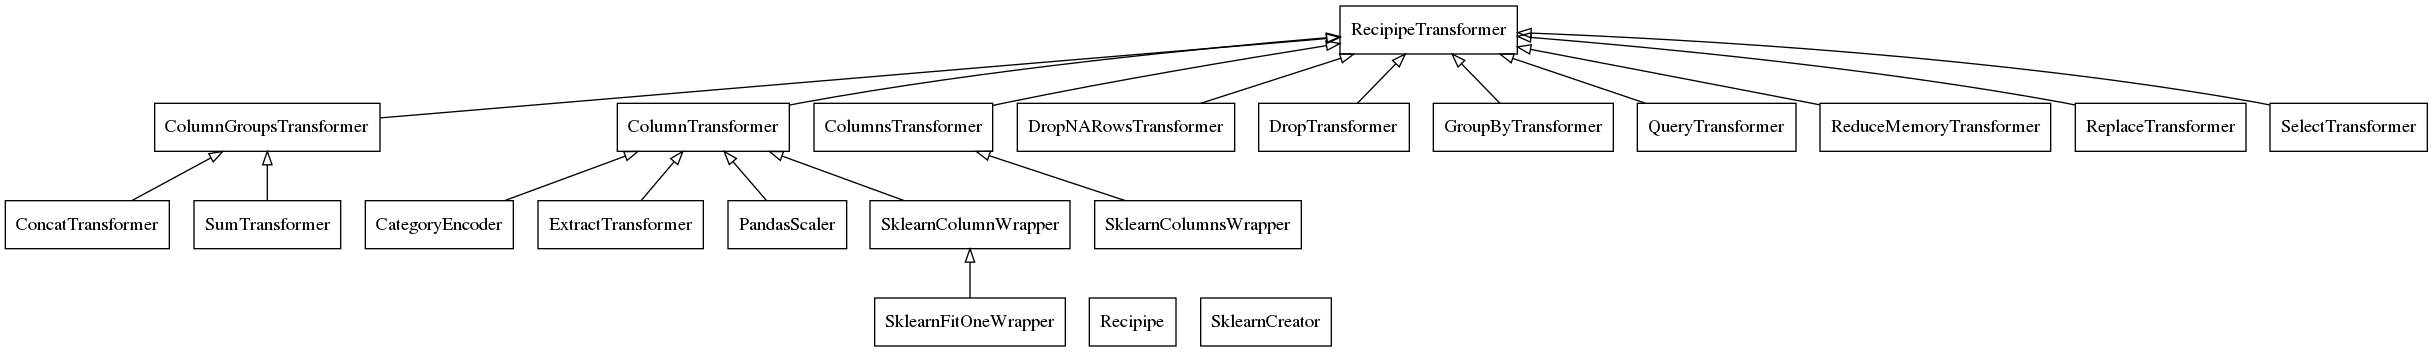
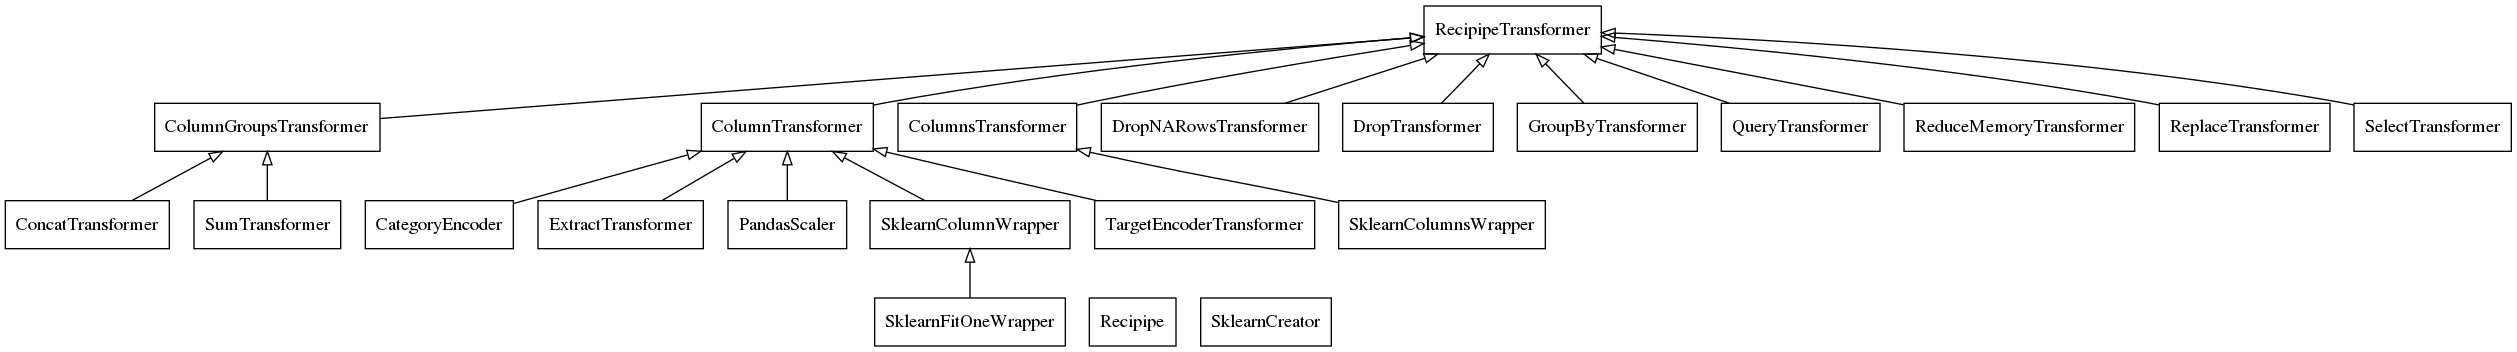
Deploying to gh-pages from  @ 59e447eec90e75dd7cc5e11b3ef0d5c1fa50d520 🚀

diff --git a/searchindex.js b/searchindex.js
@@ -1,1 +1,1 @@
-Search.setIndex({docnames:["diagrams","index","installation","recipipe"],envversion:{"sphinx.domains.c":2,"sphinx.domains.changeset":1,"sphinx.domains.citation":1,"sphinx.domains.cpp":2,"sphinx.domains.index":1,"sphinx.domains.javascript":2,"sphinx.domains.math":2,"sphinx.domains.python":2,"sphinx.domains.rst":2,"sphinx.domains.std":1,"sphinx.ext.intersphinx":1,"sphinx.ext.viewcode":1,sphinx:56},filenames:["diagrams.rst","index.rst","installation.rst","recipipe.rst"],objects:{"":{recipipe:[3,0,0,"-"]},"recipipe.core":{Recipipe:[3,1,1,""],RecipipeTransformer:[3,1,1,""]},"recipipe.core.Recipipe":{__abstractmethods__:[3,2,1,""],__add__:[3,3,1,""],__init__:[3,3,1,""],__module__:[3,2,1,""],add:[3,3,1,""],steps:[3,2,1,""]},"recipipe.core.RecipipeTransformer":{__init__:[3,3,1,""],__module__:[3,2,1,""],fit:[3,3,1,""],get_column_mapping:[3,3,1,""],inverse_transform:[3,3,1,""],name:[3,2,1,""],transform:[3,3,1,""]},"recipipe.transformers":{CategoryEncoder:[3,1,1,""],ColumnGroupsTransformer:[3,1,1,""],ColumnTransformer:[3,1,1,""],ColumnsTransformer:[3,1,1,""],ConcatTransformer:[3,1,1,""],DropNARowsTransformer:[3,1,1,""],DropTransformer:[3,1,1,""],ExtractTransformer:[3,1,1,""],GroupByTransformer:[3,1,1,""],PandasScaler:[3,1,1,""],QueryTransformer:[3,1,1,""],ReduceMemoryTransformer:[3,1,1,""],ReplaceTransformer:[3,1,1,""],SelectTransformer:[3,1,1,""],SklearnColumnWrapper:[3,1,1,""],SklearnColumnsWrapper:[3,1,1,""],SklearnCreator:[3,1,1,""],SklearnFitOneWrapper:[3,1,1,""],SumTransformer:[3,1,1,""]},"recipipe.transformers.CategoryEncoder":{__init__:[3,3,1,""],__module__:[3,2,1,""]},"recipipe.transformers.ColumnGroupsTransformer":{__init__:[3,3,1,""],__module__:[3,2,1,""],get_column_mapping:[3,3,1,""]},"recipipe.transformers.ColumnTransformer":{__module__:[3,2,1,""],fit:[3,3,1,""]},"recipipe.transformers.ColumnsTransformer":{__module__:[3,2,1,""]},"recipipe.transformers.ConcatTransformer":{__init__:[3,3,1,""],__module__:[3,2,1,""]},"recipipe.transformers.DropNARowsTransformer":{__init__:[3,3,1,""],__module__:[3,2,1,""],inverse_transform:[3,3,1,""],transform:[3,3,1,""]},"recipipe.transformers.DropTransformer":{__module__:[3,2,1,""],inverse_transform:[3,3,1,""],transform:[3,3,1,""]},"recipipe.transformers.ExtractTransformer":{__init__:[3,3,1,""],__module__:[3,2,1,""],get_column_mapping:[3,3,1,""]},"recipipe.transformers.GroupByTransformer":{__init__:[3,3,1,""],__module__:[3,2,1,""],fit:[3,3,1,""],fit_group:[3,3,1,""],inverse_transform:[3,3,1,""],inverse_transform_group:[3,3,1,""],transform:[3,3,1,""],transform_group:[3,3,1,""]},"recipipe.transformers.PandasScaler":{__init__:[3,3,1,""],__module__:[3,2,1,""]},"recipipe.transformers.QueryTransformer":{__init__:[3,3,1,""],__module__:[3,2,1,""],transform:[3,3,1,""]},"recipipe.transformers.ReduceMemoryTransformer":{__init__:[3,3,1,""],__module__:[3,2,1,""],transform:[3,3,1,""]},"recipipe.transformers.ReplaceTransformer":{__init__:[3,3,1,""],__module__:[3,2,1,""]},"recipipe.transformers.SelectTransformer":{__module__:[3,2,1,""],inverse_transform:[3,3,1,""],transform:[3,3,1,""]},"recipipe.transformers.SklearnColumnWrapper":{__init__:[3,3,1,""],__module__:[3,2,1,""],get_column_mapping:[3,3,1,""]},"recipipe.transformers.SklearnColumnsWrapper":{__init__:[3,3,1,""],__module__:[3,2,1,""],get_column_mapping:[3,3,1,""]},"recipipe.transformers.SklearnCreator":{WRAPPERS:[3,2,1,""],__call__:[3,3,1,""],__dict__:[3,2,1,""],__init__:[3,3,1,""],__module__:[3,2,1,""],__weakref__:[3,2,1,""]},"recipipe.transformers.SklearnFitOneWrapper":{__module__:[3,2,1,""]},"recipipe.transformers.SumTransformer":{__module__:[3,2,1,""]},"recipipe.utils":{add_to_map_dict:[3,4,1,""],default_params:[3,4,1,""],fit_columns:[3,4,1,""],flatten_list:[3,4,1,""],is_categorical:[3,4,1,""],memory_usage_mb:[3,4,1,""]},recipipe:{core:[3,0,0,"-"],greet:[3,4,1,""],transformers:[3,0,0,"-"],utils:[3,0,0,"-"]}},objnames:{"0":["py","module","Python module"],"1":["py","class","Python class"],"2":["py","attribute","Python attribute"],"3":["py","method","Python method"],"4":["py","function","Python function"]},objtypes:{"0":"py:module","1":"py:class","2":"py:attribute","3":"py:method","4":"py:function"},terms:{"class":[1,3],"default":3,"function":3,"import":[2,3],"int":3,"new":3,"return":3,"true":3,For:3,The:[2,3],Use:3,Using:2,__abstractmethods__:3,__add__:3,__call__:3,__dict__:3,__doc__:3,__init__:3,__module__:3,__weakref__:3,_new:3,about:3,accur:3,add:3,add_to_map_dict:3,after:3,alia:3,alias:1,all:[2,3],allow:3,alreadi:3,also:3,alwai:[2,3],ani:[2,3],anoth:3,another_fun:3,anytim:3,append:3,appli:3,arg:3,argument:3,assum:3,attr:3,attribut:3,automat:[2,3],avoid:3,back:3,base:3,baseestim:3,becaus:3,been:3,befor:3,between:3,big:3,binar:3,bool:3,both:3,branch:2,call:3,can:[2,3],cannot:3,captur:3,care:3,categor:3,categori:3,categoryencod:3,chain:3,chang:[2,3],check:3,clone:2,code:1,col:3,col_format:3,col_init:3,col_map:3,col_valu:3,cols_init:3,cols_list:3,cols_not_found_error:3,column:3,columngroupstransform:3,columnstransform:3,columntransform:3,com:2,combin:3,come:3,compat:3,complet:3,comput:3,concat:3,concaten:3,concattransform:3,consid:[2,3],constant:3,constrain:3,construct:3,contain:3,content:1,continu:3,convers:3,convert:3,copi:3,core:1,creat:3,creation:3,current:2,data:3,datafram:3,datatyp:3,deal:3,declar:3,deep:3,def:3,default_dict:3,default_param:3,defin:3,definit:3,delet:3,depend:2,develop:2,df_in:3,diagram:1,dict:3,dictionari:3,differ:3,directori:2,doc:2,doe:3,done:3,download:0,drop:3,drop_dupl:3,dropna:3,dropna_row:3,dropnarowstransform:3,droptransform:3,dtype:3,duplic:3,each:3,eas:3,easi:3,edit:2,element:3,empti:3,encod:3,end:3,environ:2,error:3,error_unknown:3,especi:3,even:3,everyth:2,exact:2,exactli:3,exampl:3,except:3,exclud:3,exclus:3,execut:[2,3],exist:3,extens:3,extra:2,extract:3,extracttransform:3,factor:3,fals:3,few:3,filenam:[2,3],filter:3,first:3,fist:3,fit:3,fit_column:3,fit_group:3,fit_one_col:3,flag:3,flatten:3,flatten_list:3,fnmatch:3,format:0,friendli:3,from:[1,3],from_sklearn:3,frozenset:3,full:0,fun:3,fun_kwarg:3,gener:[2,3],get:3,get_column_map:3,git:2,github:2,give:3,given:3,going:3,good:3,greet:[2,3],group:3,group_column:3,groupbi:3,groupbytransform:3,guiferviz:2,handle_unknown:3,has:3,hashabl:3,have:[2,3],help:3,here:3,how:3,http:2,human:3,ideal:3,ident:3,ignor:3,implement:3,improv:3,imput:3,includ:3,incorpor:3,index:1,indic:3,inform:3,initi:3,inplac:3,input:3,instal:1,instanc:3,instanti:3,instead:3,integ:3,invers:3,inverse_transform:3,inverse_transform_group:3,is_categor:3,isn:3,iter:3,joke:2,keep:3,keep_origin:3,kei:3,know:2,kwarg:3,later:3,latest:2,less:3,like:3,list:3,mai:3,make:3,mani:3,manual:3,map:3,mappingproxi:3,master:2,match:3,memori:3,memory_usag:3,memory_usage_mb:3,method:[2,3],minmax:3,minmaxscal:3,missingind:3,mode:2,modif:3,modifi:3,modul:1,more:3,much:3,must:3,name:3,ndarrai:3,need:[2,3],next:3,non:3,none:3,normal:3,note:3,now:3,num_column:3,number:3,numer:3,numpi:3,object:3,object_to_categori:3,obvious:3,occupi:3,one:3,onehot:3,onehotencod:3,ones:3,onli:3,oper:3,order:3,otherwis:3,output:3,over:3,overwrit:3,packag:[1,2],pain:3,panda:3,pandasscal:3,param:3,paramet:3,particular:3,pass:3,pattern:3,pdf:0,per:3,percentag:3,phase:3,pip:2,pipe:3,pipelin:3,place:3,placehold:3,possibl:3,preprocess:3,print:3,problem:2,process:3,product:2,program:2,project:[2,3],properli:2,provid:3,pypi:1,python:2,quantiti:3,queri:3,querytransform:3,rais:3,raise_error:3,realli:[2,3],reason:3,recipip:2,recipipetransform:3,recommend:2,recurs:3,reduc:3,reduce_memori:3,reducememorytransform:3,refer:3,regex:3,relat:3,relationship:3,remind:3,remov:3,replac:3,replacetransform:3,repositori:2,requir:[2,3],requirements_dev:2,respect:2,rest:3,result:3,reus:3,robust_scal:3,robustscal:3,root:2,row:3,run:2,same:3,satisfi:3,save:3,scale:3,scaler:3,scienc:3,screen:[2,3],see:[2,3],select:3,select_dtyp:3,selecttransform:3,self:3,sens:3,sentenc:3,separ:3,seri:3,set:3,setuptool:2,sever:3,share:3,should:[2,3],show:3,shown:3,signatur:3,silli:3,similar:2,simpleimput:3,sk_binar:3,sk_indic:3,sk_input:3,sk_onehot:3,sk_scale:3,sk_transform:3,sklearn:3,sklearncolumnswrapp:3,sklearncolumnwrapp:3,sklearncreat:3,sklearnfitonewrapp:3,slow:3,solv:3,some:[2,3],someth:2,sourc:[1,3],spars:3,specif:3,specifi:3,split:3,standar:3,standard:3,standardscal:3,stdout:3,step:3,store:3,str:3,strategi:3,string:3,substitut:3,sum:3,sumtransform:3,suport:3,support:3,sure:3,symbol:3,tabl:3,take:3,taken:3,test:1,than:3,thei:3,them:[2,3],thi:3,those:[2,3],thresh:3,time:3,too:3,transform:1,transform_group:3,transformermixin:3,tupl:3,twice:3,two:3,txt:2,type:3,uniqu:3,unix:3,unknown_valu:3,unpack:3,usag:3,use:[2,3],used:3,useful:3,user:3,using:[2,3],util:1,valu:3,valueerror:3,variabl:3,verbos:3,veri:3,version:2,virtual:2,wai:3,want:3,weak:3,well:2,when:3,where:3,which:3,without:3,work:[2,3],wrapper:3,you:[2,3],your:3,yourself:3},titles:["Diagrams","Welcome to Recipipe\u2019s documentation!","Installation","recipipe package"],titleterms:{"class":0,alias:3,code:2,core:3,diagram:0,document:1,from:2,indic:1,instal:2,modul:3,packag:[0,3],pypi:2,recipip:[1,3],sourc:2,test:2,transform:3,util:3,welcom:1}})
+Search.setIndex({docnames:["diagrams","index","installation","recipipe"],envversion:{"sphinx.domains.c":2,"sphinx.domains.changeset":1,"sphinx.domains.citation":1,"sphinx.domains.cpp":2,"sphinx.domains.index":1,"sphinx.domains.javascript":2,"sphinx.domains.math":2,"sphinx.domains.python":2,"sphinx.domains.rst":2,"sphinx.domains.std":1,"sphinx.ext.intersphinx":1,"sphinx.ext.viewcode":1,sphinx:56},filenames:["diagrams.rst","index.rst","installation.rst","recipipe.rst"],objects:{"":{recipipe:[3,0,0,"-"]},"recipipe.core":{Recipipe:[3,1,1,""],RecipipeTransformer:[3,1,1,""]},"recipipe.core.Recipipe":{__abstractmethods__:[3,2,1,""],__add__:[3,3,1,""],__init__:[3,3,1,""],__module__:[3,2,1,""],add:[3,3,1,""],steps:[3,2,1,""]},"recipipe.core.RecipipeTransformer":{__init__:[3,3,1,""],__module__:[3,2,1,""],fit:[3,3,1,""],get_column_mapping:[3,3,1,""],inverse_transform:[3,3,1,""],name:[3,2,1,""],transform:[3,3,1,""]},"recipipe.transformers":{CategoryEncoder:[3,1,1,""],ColumnGroupsTransformer:[3,1,1,""],ColumnTransformer:[3,1,1,""],ColumnsTransformer:[3,1,1,""],ConcatTransformer:[3,1,1,""],DropNARowsTransformer:[3,1,1,""],DropTransformer:[3,1,1,""],ExtractTransformer:[3,1,1,""],GroupByTransformer:[3,1,1,""],PandasScaler:[3,1,1,""],QueryTransformer:[3,1,1,""],ReduceMemoryTransformer:[3,1,1,""],ReplaceTransformer:[3,1,1,""],SelectTransformer:[3,1,1,""],SklearnColumnWrapper:[3,1,1,""],SklearnColumnsWrapper:[3,1,1,""],SklearnCreator:[3,1,1,""],SklearnFitOneWrapper:[3,1,1,""],SumTransformer:[3,1,1,""],TargetEncoderTransformer:[3,1,1,""]},"recipipe.transformers.CategoryEncoder":{__init__:[3,3,1,""],__module__:[3,2,1,""]},"recipipe.transformers.ColumnGroupsTransformer":{__init__:[3,3,1,""],__module__:[3,2,1,""],get_column_mapping:[3,3,1,""]},"recipipe.transformers.ColumnTransformer":{__module__:[3,2,1,""],fit:[3,3,1,""]},"recipipe.transformers.ColumnsTransformer":{__module__:[3,2,1,""]},"recipipe.transformers.ConcatTransformer":{__init__:[3,3,1,""],__module__:[3,2,1,""]},"recipipe.transformers.DropNARowsTransformer":{__init__:[3,3,1,""],__module__:[3,2,1,""],inverse_transform:[3,3,1,""],transform:[3,3,1,""]},"recipipe.transformers.DropTransformer":{__module__:[3,2,1,""],inverse_transform:[3,3,1,""],transform:[3,3,1,""]},"recipipe.transformers.ExtractTransformer":{__init__:[3,3,1,""],__module__:[3,2,1,""],get_column_mapping:[3,3,1,""]},"recipipe.transformers.GroupByTransformer":{__init__:[3,3,1,""],__module__:[3,2,1,""],fit:[3,3,1,""],fit_group:[3,3,1,""],inverse_transform:[3,3,1,""],inverse_transform_group:[3,3,1,""],transform:[3,3,1,""],transform_group:[3,3,1,""]},"recipipe.transformers.PandasScaler":{__init__:[3,3,1,""],__module__:[3,2,1,""]},"recipipe.transformers.QueryTransformer":{__init__:[3,3,1,""],__module__:[3,2,1,""],transform:[3,3,1,""]},"recipipe.transformers.ReduceMemoryTransformer":{__init__:[3,3,1,""],__module__:[3,2,1,""],transform:[3,3,1,""]},"recipipe.transformers.ReplaceTransformer":{__init__:[3,3,1,""],__module__:[3,2,1,""]},"recipipe.transformers.SelectTransformer":{__module__:[3,2,1,""],inverse_transform:[3,3,1,""],transform:[3,3,1,""]},"recipipe.transformers.SklearnColumnWrapper":{__init__:[3,3,1,""],__module__:[3,2,1,""],get_column_mapping:[3,3,1,""]},"recipipe.transformers.SklearnColumnsWrapper":{__init__:[3,3,1,""],__module__:[3,2,1,""],get_column_mapping:[3,3,1,""]},"recipipe.transformers.SklearnCreator":{WRAPPERS:[3,2,1,""],__call__:[3,3,1,""],__dict__:[3,2,1,""],__init__:[3,3,1,""],__module__:[3,2,1,""],__weakref__:[3,2,1,""]},"recipipe.transformers.SklearnFitOneWrapper":{__module__:[3,2,1,""]},"recipipe.transformers.SumTransformer":{__module__:[3,2,1,""]},"recipipe.transformers.TargetEncoderTransformer":{__init__:[3,3,1,""],__module__:[3,2,1,""]},"recipipe.utils":{add_to_map_dict:[3,4,1,""],default_params:[3,4,1,""],fit_columns:[3,4,1,""],flatten_list:[3,4,1,""],is_categorical:[3,4,1,""],memory_usage_mb:[3,4,1,""]},recipipe:{core:[3,0,0,"-"],greet:[3,4,1,""],transformers:[3,0,0,"-"],utils:[3,0,0,"-"]}},objnames:{"0":["py","module","Python module"],"1":["py","class","Python class"],"2":["py","attribute","Python attribute"],"3":["py","method","Python method"],"4":["py","function","Python function"]},objtypes:{"0":"py:module","1":"py:class","2":"py:attribute","3":"py:method","4":"py:function"},terms:{"class":[1,3],"default":3,"function":3,"import":[2,3],"int":3,"new":3,"return":3,"true":3,For:3,The:[2,3],Use:3,Using:2,__abstractmethods__:3,__add__:3,__call__:3,__dict__:3,__doc__:3,__init__:3,__module__:3,__weakref__:3,_new:3,about:3,accur:3,add:3,add_to_map_dict:3,after:3,alia:3,alias:1,all:[2,3],allow:3,alreadi:3,also:3,alwai:[2,3],ani:[2,3],anoth:3,another_fun:3,anytim:3,append:3,appli:3,arg:3,argument:3,assum:3,attr:3,attribut:3,automat:[2,3],avoid:3,back:3,barreca:3,base:3,baseestim:3,becaus:3,been:3,befor:3,between:3,big:3,binar:3,bool:3,both:3,branch:2,call:3,can:[2,3],cannot:3,captur:3,cardin:3,care:3,categor:3,categori:3,categoryencod:3,chain:3,chang:[2,3],check:3,classif:3,classifi:3,clone:2,code:[1,3],col:3,col_format:3,col_init:3,col_map:3,col_valu:3,cols_init:3,cols_list:3,cols_not_found_error:3,column:3,columngroupstransform:3,columnstransform:3,columntransform:3,com:[2,3],combin:3,come:3,compat:3,complet:3,comput:3,concat:3,concaten:3,concattransform:3,consid:[2,3],constant:3,constrain:3,construct:3,contain:3,content:1,continu:3,convers:3,convert:3,copi:3,core:1,creat:3,creation:3,current:2,daniel:3,data:3,datafram:3,datatyp:3,deal:3,declar:3,deep:3,def:3,default_dict:3,default_param:3,defin:3,definit:3,delet:3,depend:2,describ:3,develop:2,df_in:3,diagram:1,dict:3,dictionari:3,differ:3,directori:2,doc:2,doe:3,done:3,download:0,drop:3,drop_dupl:3,dropna:3,dropna_row:3,dropnarowstransform:3,droptransform:3,dtype:3,duplic:3,each:3,eas:3,easi:3,edit:2,element:3,empti:3,encod:3,end:3,environ:2,error:3,error_unknown:3,especi:3,even:3,everyth:2,exact:2,exactli:3,exampl:3,except:3,exclud:3,exclus:3,execut:[2,3],exist:3,extens:3,extra:2,extract:3,extracttransform:3,factor:3,fals:3,few:3,filenam:[2,3],filter:3,first:3,fist:3,fit:3,fit_column:3,fit_group:3,fit_one_col:3,flag:3,flatten:3,flatten_list:3,fnmatch:3,format:0,friendli:3,from:[1,3],from_sklearn:3,frozenset:3,full:0,fun:3,fun_kwarg:3,gener:[2,3],get:3,get_column_map:3,git:2,github:2,give:3,given:3,going:3,good:3,greet:[2,3],group:3,group_column:3,groupbi:3,groupbytransform:3,guiferviz:2,handle_unknown:3,has:3,hashabl:3,have:[2,3],help:3,here:3,high:3,how:3,http:[2,3],human:3,ideal:3,ident:3,ignor:3,implement:3,improv:3,imput:3,includ:3,incorpor:3,index:1,indic:3,inform:3,initi:3,inplac:3,input:3,instal:1,instanc:3,instanti:3,instead:3,integ:3,invers:3,inverse_transform:3,inverse_transform_group:3,is_categor:3,isn:3,iter:3,joke:2,kaggl:3,keep:3,keep_origin:3,kei:3,know:2,kwarg:3,later:3,latest:2,less:3,like:3,list:3,mai:3,make:3,mani:3,manual:3,map:3,mappingproxi:3,master:2,match:3,memori:3,memory_usag:3,memory_usage_mb:3,method:[2,3],micci:3,min_samples_leaf:3,minmax:3,minmaxscal:3,missingind:3,mode:2,modif:3,modifi:3,modul:1,more:3,much:3,must:3,name:3,ndarrai:3,need:[2,3],next:3,non:3,none:3,normal:3,note:3,now:3,num_column:3,number:3,numer:3,numpi:3,object:3,object_to_categori:3,obvious:3,occupi:3,ogrelli:3,one:3,onehot:3,onehotencod:3,ones:3,onli:3,oper:3,order:3,otherwis:3,output:3,over:3,overwrit:3,packag:[1,2],pain:3,panda:3,pandasscal:3,param:3,paramet:3,partial:3,particular:3,pass:3,pattern:3,pdf:0,per:3,percentag:3,phase:3,pip:2,pipe:3,pipelin:3,place:3,placehold:3,possibl:3,predict:3,preprocess:3,print:3,problem:[2,3],process:3,product:2,program:2,project:[2,3],properli:2,provid:3,pypi:1,python:2,quantiti:3,queri:3,querytransform:3,rais:3,raise_error:3,realli:[2,3],reason:3,recipip:2,recipipetransform:3,recommend:2,recurs:3,reduc:3,reduce_memori:3,reducememorytransform:3,refer:3,regex:3,relat:3,relationship:3,remind:3,remov:3,replac:3,replacetransform:3,repositori:2,requir:[2,3],requirements_dev:2,respect:2,rest:3,result:3,reus:3,robust_scal:3,robustscal:3,root:2,row:3,run:2,same:3,satisfi:3,save:3,scale:3,scaler:3,scheme:3,scienc:3,screen:[2,3],see:[2,3],select:3,select_dtyp:3,selecttransform:3,self:3,sens:3,sentenc:3,separ:3,seri:3,set:3,setuptool:2,sever:3,share:3,should:[2,3],show:3,shown:3,signatur:3,silli:3,similar:2,simpleimput:3,sk_binar:3,sk_indic:3,sk_input:3,sk_onehot:3,sk_scale:3,sk_transform:3,sklearn:3,sklearncolumnswrapp:3,sklearncolumnwrapp:3,sklearncreat:3,sklearnfitonewrapp:3,slow:3,smooth:3,solv:3,some:[2,3],someth:2,sourc:[1,3],spars:3,specif:3,specifi:3,split:3,standar:3,standard:3,standardscal:3,stdout:3,step:3,store:3,str:3,strategi:3,string:3,substitut:3,sum:3,sumtransform:3,suport:3,support:3,sure:3,symbol:3,tabl:3,take:3,taken:3,target:3,target_encod:3,targetencodertransform:3,test:1,than:3,thei:3,them:[2,3],thi:3,those:[2,3],thresh:3,time:3,too:3,transform:1,transform_group:3,transformermixin:3,tupl:3,twice:3,two:3,txt:2,type:3,uniqu:3,unix:3,unknown_valu:3,unpack:3,upsampl:3,usag:3,use:[2,3],used:3,useful:3,user:3,using:[2,3],util:1,valu:3,valueerror:3,variabl:3,verbos:3,veri:3,version:2,virtual:2,wai:3,want:3,weak:3,well:2,when:3,where:3,which:3,without:3,work:[2,3],wrapper:3,www:3,xgb:3,you:[2,3],your:3,yourself:3},titles:["Diagrams","Welcome to Recipipe\u2019s documentation!","Installation","recipipe package"],titleterms:{"class":0,alias:3,code:2,core:3,diagram:0,document:1,from:2,indic:1,instal:2,modul:3,packag:[0,3],pypi:2,recipip:[1,3],sourc:2,test:2,transform:3,util:3,welcom:1}})

diff --git a/recipipe.html b/recipipe.html
@@ -224,46 +224,49 @@ Here is a complete table with all the aliases.</p>
 <tr class="row-even"><td><p>sum</p></td>
 <td><p><a class="reference internal" href="#recipipe.transformers.SumTransformer" title="recipipe.transformers.SumTransformer"><code class="xref py py-obj docutils literal notranslate"><span class="pre">recipipe.transformers.SumTransformer</span></code></a></p></td>
 </tr>
-<tr class="row-odd"><td><p>from_sklearn</p></td>
+<tr class="row-odd"><td><p>target_encoder</p></td>
+<td><p><a class="reference internal" href="#recipipe.transformers.TargetEncoderTransformer" title="recipipe.transformers.TargetEncoderTransformer"><code class="xref py py-obj docutils literal notranslate"><span class="pre">recipipe.transformers.TargetEncoderTransformer</span></code></a></p></td>
+</tr>
+<tr class="row-even"><td><p>from_sklearn</p></td>
 <td><p><a class="reference internal" href="#recipipe.transformers.SklearnCreator" title="recipipe.transformers.SklearnCreator"><code class="xref py py-obj docutils literal notranslate"><span class="pre">recipipe.transformers.SklearnCreator</span></code></a></p></td>
 </tr>
-<tr class="row-even"><td><p>binarizer</p></td>
+<tr class="row-odd"><td><p>binarizer</p></td>
 <td><p><cite>from_sklearn(Binarizer())</cite></p></td>
 </tr>
-<tr class="row-odd"><td><p>impute</p></td>
+<tr class="row-even"><td><p>impute</p></td>
 <td><p><cite>from_sklearn(SimpleImputer(strategy=’constant’))</cite></p></td>
 </tr>
-<tr class="row-even"><td><p>indicator</p></td>
+<tr class="row-odd"><td><p>indicator</p></td>
 <td><p><cite>from_sklearn(MissingIndicator(),col_format=’INDICATOR({})’)</cite></p></td>
 </tr>
-<tr class="row-odd"><td><p>minmax</p></td>
+<tr class="row-even"><td><p>minmax</p></td>
 <td><p><cite>from_sklearn(MinMaxScaler())</cite></p></td>
 </tr>
-<tr class="row-even"><td><p>onehot</p></td>
+<tr class="row-odd"><td><p>onehot</p></td>
 <td><p><cite>from_sklearn(OneHotEncoder(sparse=False,handle_unknown=’ignore’))</cite></p></td>
 </tr>
-<tr class="row-odd"><td><p>robust_scale</p></td>
+<tr class="row-even"><td><p>robust_scale</p></td>
 <td><p><cite>from_sklearn(RobustScaler())</cite></p></td>
 </tr>
-<tr class="row-even"><td><p>scale</p></td>
+<tr class="row-odd"><td><p>scale</p></td>
 <td><p><cite>from_sklearn(StandardScaler())</cite></p></td>
 </tr>
-<tr class="row-odd"><td><p>standarize</p></td>
+<tr class="row-even"><td><p>standarize</p></td>
 <td><p><cite>from_sklearn(StandardScaler())</cite></p></td>
 </tr>
-<tr class="row-even"><td><p>sk_binarizer</p></td>
+<tr class="row-odd"><td><p>sk_binarizer</p></td>
 <td><p><a class="reference external" href="https://scikit-learn.org/stable/modules/generated/sklearn.preprocessing.Binarizer.html#sklearn.preprocessing.Binarizer" title="(in scikit-learn v0.23)"><code class="xref py py-obj docutils literal notranslate"><span class="pre">sklearn.preprocessing.Binarizer</span></code></a></p></td>
 </tr>
-<tr class="row-odd"><td><p>sk_indicator</p></td>
+<tr class="row-even"><td><p>sk_indicator</p></td>
 <td><p><a class="reference external" href="https://scikit-learn.org/stable/modules/generated/sklearn.impute.MissingIndicator.html#sklearn.impute.MissingIndicator" title="(in scikit-learn v0.23)"><code class="xref py py-obj docutils literal notranslate"><span class="pre">sklearn.impute.MissingIndicator</span></code></a></p></td>
 </tr>
-<tr class="row-even"><td><p>sk_inputer</p></td>
+<tr class="row-odd"><td><p>sk_inputer</p></td>
 <td><p><a class="reference external" href="https://scikit-learn.org/stable/modules/generated/sklearn.impute.SimpleImputer.html#sklearn.impute.SimpleImputer" title="(in scikit-learn v0.23)"><code class="xref py py-obj docutils literal notranslate"><span class="pre">sklearn.impute.SimpleImputer</span></code></a></p></td>
 </tr>
-<tr class="row-odd"><td><p>sk_onehot</p></td>
+<tr class="row-even"><td><p>sk_onehot</p></td>
 <td><p><a class="reference external" href="https://scikit-learn.org/stable/modules/generated/sklearn.preprocessing.OneHotEncoder.html#sklearn.preprocessing.OneHotEncoder" title="(in scikit-learn v0.23)"><code class="xref py py-obj docutils literal notranslate"><span class="pre">sklearn.preprocessing.OneHotEncoder</span></code></a></p></td>
 </tr>
-<tr class="row-even"><td><p>sk_scale</p></td>
+<tr class="row-odd"><td><p>sk_scale</p></td>
 <td><p><a class="reference external" href="https://scikit-learn.org/stable/modules/generated/sklearn.preprocessing.StandardScaler.html#sklearn.preprocessing.StandardScaler" title="(in scikit-learn v0.23)"><code class="xref py py-obj docutils literal notranslate"><span class="pre">sklearn.preprocessing.StandardScaler</span></code></a></p></td>
 </tr>
 </tbody>
@@ -1732,6 +1735,80 @@ For example, if all those columns share the same category type.</p>
 <dl class="py attribute">
 <dt id="recipipe.transformers.SumTransformer.__module__">
 <code class="sig-name descname">__module__</code><em class="property"> = 'recipipe.transformers'</em><a class="headerlink" href="#recipipe.transformers.SumTransformer.__module__" title="Permalink to this definition">¶</a></dt>
+<dd></dd></dl>
+
+</dd></dl>
+
+<dl class="py class">
+<dt id="recipipe.transformers.TargetEncoderTransformer">
+<em class="property">class </em><code class="sig-prename descclassname">recipipe.transformers.</code><code class="sig-name descname">TargetEncoderTransformer</code><span class="sig-paren">(</span><em class="sig-param"><span class="o">*</span><span class="n">args</span></em>, <em class="sig-param"><span class="n">target</span><span class="o">=</span><span class="default_value">None</span></em>, <em class="sig-param"><span class="n">min_samples_leaf</span><span class="o">=</span><span class="default_value">1</span></em>, <em class="sig-param"><span class="n">smoothing</span><span class="o">=</span><span class="default_value">1</span></em>, <em class="sig-param"><span class="o">**</span><span class="n">kwargs</span></em><span class="sig-paren">)</span><a class="reference internal" href="_modules/recipipe/transformers.html#TargetEncoderTransformer"><span class="viewcode-link">[source]</span></a><a class="headerlink" href="#recipipe.transformers.TargetEncoderTransformer" title="Permalink to this definition">¶</a></dt>
+<dd><p>Bases: <a class="reference internal" href="#recipipe.transformers.ColumnTransformer" title="recipipe.transformers.ColumnTransformer"><code class="xref py py-class docutils literal notranslate"><span class="pre">recipipe.transformers.ColumnTransformer</span></code></a></p>
+<p>Target encoder.</p>
+<p>Computed as described in:
+<em>A Preprocessing Scheme for High-Cardinality Categorical Attributes in
+Classification and Prediction Problems</em>, by Daniele Micci-Barreca.</p>
+<p>Code partially taken from:
+<a class="reference external" href="https://www.kaggle.com/ogrellier/xgb-classifier-upsampling-lb-0-283">https://www.kaggle.com/ogrellier/xgb-classifier-upsampling-lb-0-283</a></p>
+<dl class="py method">
+<dt id="recipipe.transformers.TargetEncoderTransformer.__init__">
+<code class="sig-name descname">__init__</code><span class="sig-paren">(</span><em class="sig-param"><span class="o">*</span><span class="n">args</span></em>, <em class="sig-param"><span class="n">target</span><span class="o">=</span><span class="default_value">None</span></em>, <em class="sig-param"><span class="n">min_samples_leaf</span><span class="o">=</span><span class="default_value">1</span></em>, <em class="sig-param"><span class="n">smoothing</span><span class="o">=</span><span class="default_value">1</span></em>, <em class="sig-param"><span class="o">**</span><span class="n">kwargs</span></em><span class="sig-paren">)</span><a class="reference internal" href="_modules/recipipe/transformers.html#TargetEncoderTransformer.__init__"><span class="viewcode-link">[source]</span></a><a class="headerlink" href="#recipipe.transformers.TargetEncoderTransformer.__init__" title="Permalink to this definition">¶</a></dt>
+<dd><p>Create a new transformer.</p>
+<p>Columns names can be use Unix filename pattern matching (
+<a class="reference external" href="https://docs.python.org/3/library/fnmatch.html#module-fnmatch" title="(in Python v3.8)"><code class="xref py py-obj docutils literal notranslate"><span class="pre">fnmatch</span></code></a>).</p>
+<dl class="field-list simple">
+<dt class="field-odd">Parameters</dt>
+<dd class="field-odd"><ul class="simple">
+<li><p><strong>*args</strong> (<a class="reference external" href="https://docs.python.org/3/library/stdtypes.html#list" title="(in Python v3.8)"><code class="xref py py-obj docutils literal notranslate"><span class="pre">list</span></code></a> of <a class="reference external" href="https://docs.python.org/3/library/stdtypes.html#str" title="(in Python v3.8)"><code class="xref py py-obj docutils literal notranslate"><span class="pre">str</span></code></a>) – List of columns the transformer
+will work on.</p></li>
+<li><p><strong>cols_init</strong> (<a class="reference external" href="https://docs.python.org/3/library/stdtypes.html#list" title="(in Python v3.8)"><code class="xref py py-obj docutils literal notranslate"><span class="pre">list</span></code></a> of <a class="reference external" href="https://docs.python.org/3/library/stdtypes.html#str" title="(in Python v3.8)"><code class="xref py py-obj docutils literal notranslate"><span class="pre">str</span></code></a>) – List of columns the
+transformer will work on. If <cite>*args</cite> are provided, this list
+of columns is going to be appended at the end.</p></li>
+<li><p><strong>exclude</strong> (<a class="reference external" href="https://docs.python.org/3/library/stdtypes.html#list" title="(in Python v3.8)"><code class="xref py py-obj docutils literal notranslate"><span class="pre">list</span></code></a> of <a class="reference external" href="https://docs.python.org/3/library/stdtypes.html#str" title="(in Python v3.8)"><code class="xref py py-obj docutils literal notranslate"><span class="pre">str</span></code></a>) – List of columns to exclude.
+The exclusion is applied after fitting the columns, so it can
+be used at the same time as <cite>*args</cite> and <cite>col_init</cite>.</p></li>
+</ul>
+</dd>
+</dl>
+<dl class="simple">
+<dt>:param dtype (<a class="reference external" href="https://numpy.org/doc/stable/reference/generated/numpy.dtype.html#numpy.dtype" title="(in NumPy v1.18)"><code class="xref py py-obj docutils literal notranslate"><span class="pre">numpy.dtype</span></code></a>, <a class="reference external" href="https://docs.python.org/3/library/stdtypes.html#str" title="(in Python v3.8)"><code class="xref py py-obj docutils literal notranslate"><span class="pre">str</span></code></a>, <a class="reference external" href="https://docs.python.org/3/library/stdtypes.html#list" title="(in Python v3.8)"><code class="xref py py-obj docutils literal notranslate"><span class="pre">list</span></code></a> of: <a class="reference external" href="https://numpy.org/doc/stable/reference/generated/numpy.dtype.html#numpy.dtype" title="(in NumPy v1.18)"><code class="xref py py-obj docutils literal notranslate"><span class="pre">numpy.dtype</span></code></a> or with <a class="reference external" href="https://docs.python.org/3/library/stdtypes.html#str" title="(in Python v3.8)"><code class="xref py py-obj docutils literal notranslate"><span class="pre">str</span></code></a> or <a class="reference external" href="https://docs.python.org/3/library/stdtypes.html#dict" title="(in Python v3.8)"><code class="xref py py-obj docutils literal notranslate"><span class="pre">dict</span></code></a>): This</dt><dd><p>value is passed to <a class="reference external" href="https://pandas.pydata.org/pandas-docs/stable/reference/api/pandas.DataFrame.select_dtypes.html#pandas.DataFrame.select_dtypes" title="(in pandas v1.0.4)"><code class="xref py py-obj docutils literal notranslate"><span class="pre">pandas.DataFrame.select_dtypes</span></code></a>.
+If a <a class="reference external" href="https://docs.python.org/3/library/stdtypes.html#dict" title="(in Python v3.8)"><code class="xref py py-obj docutils literal notranslate"><span class="pre">dict</span></code></a> is given, the Pandas function is going to be
+called with dictionary unpacking: <cite>select_dtypes(**dtype)</cite>.
+In this way you can exclude, for example, int dtypes using:
+<cite>dtype=dict(exclude=int)</cite>.
+The columns returned by this method (executed in the DataFrame
+passed to the fit method) will be the columns that are going
+to be used in the transformation phase.
+When used in combination with <cite>*args</cite> or <cite>cols_init</cite>, the dtype
+filter is applied later.</p>
+</dd>
+</dl>
+<dl class="field-list simple">
+<dt class="field-odd">Parameters</dt>
+<dd class="field-odd"><ul class="simple">
+<li><p><strong>name</strong> (<a class="reference external" href="https://docs.python.org/3/library/stdtypes.html#str" title="(in Python v3.8)"><code class="xref py py-obj docutils literal notranslate"><span class="pre">str</span></code></a>) – Human-friendly name of the transformer.</p></li>
+<li><p><strong>keep_original</strong> (<a class="reference external" href="https://docs.python.org/3/library/functions.html#bool" title="(in Python v3.8)"><code class="xref py py-obj docutils literal notranslate"><span class="pre">bool</span></code></a>) – <cite>True</cite> if you want to keep the input
+columns used in the transformer in the transformed DataFrame,
+<cite>False</cite> if not.
+Note that, if the output column has the same name as the input
+column, the output input column will not be included even if
+<cite>keep_original</cite> is set to <cite>True</cite>.
+Default: <cite>False</cite>.</p></li>
+<li><p><strong>col_format</strong> (<a class="reference external" href="https://docs.python.org/3/library/stdtypes.html#str" title="(in Python v3.8)"><code class="xref py py-obj docutils literal notranslate"><span class="pre">str</span></code></a>) – New name of the columns. Use “{}” in to
+substitute that placeholder by the column name. For example, if
+you want to append the string “_new” at the end of all the
+generated columns you must set <cite>col_format=”{}_new”</cite>.
+Default: “{}”.</p></li>
+<li><p><strong>cols_not_found_error</strong> (<a class="reference external" href="https://docs.python.org/3/library/functions.html#bool" title="(in Python v3.8)"><code class="xref py py-obj docutils literal notranslate"><span class="pre">bool</span></code></a>) – Raise an error if the isn’t
+any match for any of the specified columns.
+Default: <cite>False</cite>.</p></li>
+</ul>
+</dd>
+</dl>
+</dd></dl>
+
+<dl class="py attribute">
+<dt id="recipipe.transformers.TargetEncoderTransformer.__module__">
+<code class="sig-name descname">__module__</code><em class="property"> = 'recipipe.transformers'</em><a class="headerlink" href="#recipipe.transformers.TargetEncoderTransformer.__module__" title="Permalink to this definition">¶</a></dt>
 <dd></dd></dl>
 
 </dd></dl>

diff --git a/_modules/recipipe/transformers.html b/_modules/recipipe/transformers.html
@@ -161,6 +161,8 @@
 <span class="kn">import</span> <span class="nn">inspect</span>
 <span class="kn">import</span> <span class="nn">re</span>
 
+<span class="kn">import</span> <span class="nn">numpy</span> <span class="k">as</span> <span class="nn">np</span>
+
 <span class="kn">import</span> <span class="nn">pandas</span> <span class="k">as</span> <span class="nn">pd</span>
 
 <span class="kn">from</span> <span class="nn">sklearn.base</span> <span class="kn">import</span> <span class="n">clone</span>
@@ -922,6 +924,55 @@
 
     <span class="k">def</span> <span class="nf">_transform_group</span><span class="p">(</span><span class="bp">self</span><span class="p">,</span> <span class="n">df</span><span class="p">,</span> <span class="n">group_cols</span><span class="p">):</span>
         <span class="k">return</span> <span class="n">df</span><span class="p">[</span><span class="n">group_cols</span><span class="p">]</span><span class="o">.</span><span class="n">sum</span><span class="p">(</span><span class="n">axis</span><span class="o">=</span><span class="mi">1</span><span class="p">)</span></div>
+
+
+<div class="viewcode-block" id="TargetEncoderTransformer"><a class="viewcode-back" href="../../recipipe.html#recipipe.transformers.TargetEncoderTransformer">[docs]</a><span class="k">class</span> <span class="nc">TargetEncoderTransformer</span><span class="p">(</span><span class="n">ColumnTransformer</span><span class="p">):</span>
+    <span class="sd">&quot;&quot;&quot;Target encoder.</span>
+
+<span class="sd">    Computed as described in:</span>
+<span class="sd">    *A Preprocessing Scheme for High-Cardinality Categorical Attributes in</span>
+<span class="sd">    Classification and Prediction Problems*, by Daniele Micci-Barreca.</span>
+
+<span class="sd">    Code partially taken from:</span>
+<span class="sd">    https://www.kaggle.com/ogrellier/xgb-classifier-upsampling-lb-0-283</span>
+<span class="sd">    &quot;&quot;&quot;</span>
+
+<div class="viewcode-block" id="TargetEncoderTransformer.__init__"><a class="viewcode-back" href="../../recipipe.html#recipipe.transformers.TargetEncoderTransformer.__init__">[docs]</a>    <span class="k">def</span> <span class="fm">__init__</span><span class="p">(</span><span class="bp">self</span><span class="p">,</span> <span class="o">*</span><span class="n">args</span><span class="p">,</span> <span class="n">target</span><span class="o">=</span><span class="kc">None</span><span class="p">,</span> <span class="n">min_samples_leaf</span><span class="o">=</span><span class="mi">1</span><span class="p">,</span> <span class="n">smoothing</span><span class="o">=</span><span class="mi">1</span><span class="p">,</span>
+                <span class="o">**</span><span class="n">kwargs</span><span class="p">):</span>
+        <span class="nb">super</span><span class="p">()</span><span class="o">.</span><span class="fm">__init__</span><span class="p">(</span><span class="o">*</span><span class="n">args</span><span class="p">,</span> <span class="o">**</span><span class="n">kwargs</span><span class="p">)</span>
+        <span class="k">if</span> <span class="n">target</span> <span class="ow">is</span> <span class="kc">None</span><span class="p">:</span>
+            <span class="k">raise</span> <span class="ne">ValueError</span><span class="p">(</span><span class="s2">&quot;A target must be specified&quot;</span><span class="p">)</span>
+        <span class="bp">self</span><span class="o">.</span><span class="n">target</span> <span class="o">=</span> <span class="n">target</span>
+        <span class="bp">self</span><span class="o">.</span><span class="n">replace_dicts</span> <span class="o">=</span> <span class="p">{}</span>
+        <span class="bp">self</span><span class="o">.</span><span class="n">min_samples_leaf</span> <span class="o">=</span> <span class="n">min_samples_leaf</span>
+        <span class="bp">self</span><span class="o">.</span><span class="n">smoothing</span> <span class="o">=</span> <span class="n">smoothing</span></div>
+
+    <span class="k">def</span> <span class="nf">_fit</span><span class="p">(</span><span class="bp">self</span><span class="p">,</span> <span class="n">df</span><span class="p">):</span>
+        <span class="k">if</span> <span class="bp">self</span><span class="o">.</span><span class="n">target</span> <span class="ow">not</span> <span class="ow">in</span> <span class="n">df</span><span class="p">:</span>
+            <span class="k">raise</span> <span class="ne">ValueError</span><span class="p">(</span><span class="s2">&quot;Target must be in the fitted DataFrame&quot;</span><span class="p">)</span>
+        <span class="k">if</span> <span class="bp">self</span><span class="o">.</span><span class="n">target</span> <span class="ow">in</span> <span class="bp">self</span><span class="o">.</span><span class="n">cols</span><span class="p">:</span>
+            <span class="bp">self</span><span class="o">.</span><span class="n">cols</span><span class="o">.</span><span class="n">remove</span><span class="p">(</span><span class="bp">self</span><span class="o">.</span><span class="n">target</span><span class="p">)</span>
+        <span class="nb">super</span><span class="p">()</span><span class="o">.</span><span class="n">_fit</span><span class="p">(</span><span class="n">df</span><span class="p">)</span>
+        <span class="bp">self</span><span class="o">.</span><span class="n">inverse_replace_dicts</span> <span class="o">=</span> <span class="p">{</span><span class="n">k</span><span class="p">:</span> <span class="p">{</span><span class="n">v1</span><span class="p">:</span> <span class="n">k1</span> <span class="k">for</span> <span class="n">k1</span><span class="p">,</span> <span class="n">v1</span> <span class="ow">in</span> <span class="n">v</span><span class="o">.</span><span class="n">items</span><span class="p">()}</span>
+                <span class="k">for</span> <span class="n">k</span><span class="p">,</span> <span class="n">v</span> <span class="ow">in</span> <span class="bp">self</span><span class="o">.</span><span class="n">replace_dicts</span><span class="o">.</span><span class="n">items</span><span class="p">()}</span>
+
+    <span class="k">def</span> <span class="nf">_fit_column</span><span class="p">(</span><span class="bp">self</span><span class="p">,</span> <span class="n">df</span><span class="p">,</span> <span class="n">col</span><span class="p">):</span>
+        <span class="n">averages</span> <span class="o">=</span> <span class="n">df</span><span class="o">.</span><span class="n">groupby</span><span class="p">(</span><span class="n">col</span><span class="p">)[</span><span class="bp">self</span><span class="o">.</span><span class="n">target</span><span class="p">]</span><span class="o">.</span><span class="n">agg</span><span class="p">([</span><span class="s2">&quot;mean&quot;</span><span class="p">,</span> <span class="s2">&quot;count&quot;</span><span class="p">])</span>
+        <span class="n">smoothing</span> <span class="o">=</span> <span class="mi">1</span> <span class="o">/</span> <span class="p">(</span><span class="mi">1</span> <span class="o">+</span> <span class="n">np</span><span class="o">.</span><span class="n">exp</span><span class="p">(</span><span class="o">-</span><span class="p">(</span><span class="n">averages</span><span class="p">[</span><span class="s2">&quot;count&quot;</span><span class="p">]</span> <span class="o">-</span>
+                <span class="bp">self</span><span class="o">.</span><span class="n">min_samples_leaf</span><span class="p">)</span> <span class="o">/</span> <span class="bp">self</span><span class="o">.</span><span class="n">smoothing</span><span class="p">))</span>
+        <span class="c1"># Apply average function to all target data</span>
+        <span class="n">prior</span> <span class="o">=</span> <span class="n">df</span><span class="p">[</span><span class="bp">self</span><span class="o">.</span><span class="n">target</span><span class="p">]</span><span class="o">.</span><span class="n">mean</span><span class="p">()</span>
+        <span class="c1"># The bigger the count the less full_avg is taken into account</span>
+        <span class="n">output</span> <span class="o">=</span> <span class="n">prior</span> <span class="o">*</span> <span class="p">(</span><span class="mi">1</span> <span class="o">-</span> <span class="n">smoothing</span><span class="p">)</span> <span class="o">+</span> <span class="n">averages</span><span class="p">[</span><span class="s2">&quot;mean&quot;</span><span class="p">]</span> <span class="o">*</span> <span class="n">smoothing</span>
+        <span class="bp">self</span><span class="o">.</span><span class="n">replace_dicts</span><span class="p">[</span><span class="n">col</span><span class="p">]</span> <span class="o">=</span> <span class="n">output</span><span class="o">.</span><span class="n">to_dict</span><span class="p">()</span>
+
+    <span class="k">def</span> <span class="nf">_transform_column</span><span class="p">(</span><span class="bp">self</span><span class="p">,</span> <span class="n">df</span><span class="p">,</span> <span class="n">col</span><span class="p">):</span>
+        <span class="k">return</span> <span class="n">df</span><span class="p">[</span><span class="n">col</span><span class="p">]</span><span class="o">.</span><span class="n">replace</span><span class="p">(</span><span class="bp">self</span><span class="o">.</span><span class="n">replace_dicts</span><span class="p">[</span><span class="n">col</span><span class="p">])</span>
+
+    <span class="k">def</span> <span class="nf">_inverse_transform_column</span><span class="p">(</span><span class="bp">self</span><span class="p">,</span> <span class="n">df</span><span class="p">,</span> <span class="n">column_names</span><span class="p">):</span>
+        <span class="n">col_out</span> <span class="o">=</span> <span class="n">column_names</span><span class="p">[</span><span class="mi">0</span><span class="p">]</span>
+        <span class="n">col_in</span> <span class="o">=</span> <span class="bp">self</span><span class="o">.</span><span class="n">col_map_1_n</span><span class="p">[</span><span class="n">col_out</span><span class="p">][</span><span class="mi">0</span><span class="p">]</span>
+        <span class="k">return</span> <span class="n">df</span><span class="p">[</span><span class="n">col_out</span><span class="p">]</span><span class="o">.</span><span class="n">replace</span><span class="p">(</span><span class="bp">self</span><span class="o">.</span><span class="n">inverse_replace_dicts</span><span class="p">[</span><span class="n">col_in</span><span class="p">])</span></div>
 
 </pre></div>
 

diff --git a/_modules/recipipe.html b/_modules/recipipe.html
@@ -188,6 +188,7 @@
 <span class="kn">from</span> <span class="nn">recipipe.transformers</span> <span class="kn">import</span> <span class="n">SklearnColumnWrapper</span>
 <span class="kn">from</span> <span class="nn">recipipe.transformers</span> <span class="kn">import</span> <span class="n">SklearnFitOneWrapper</span>
 <span class="kn">from</span> <span class="nn">recipipe.transformers</span> <span class="kn">import</span> <span class="n">SumTransformer</span>
+<span class="kn">from</span> <span class="nn">recipipe.transformers</span> <span class="kn">import</span> <span class="n">TargetEncoderTransformer</span>
 
 <span class="kn">from</span> <span class="nn">recipipe.utils</span> <span class="kn">import</span> <span class="n">fit_columns</span>
 <span class="kn">from</span> <span class="nn">recipipe.utils</span> <span class="kn">import</span> <span class="n">flatten_list</span>
@@ -214,6 +215,7 @@
 <span class="n">replace</span> <span class="o">=</span> <span class="n">ReplaceTransformer</span>
 <span class="n">reduce_memory</span> <span class="o">=</span> <span class="n">ReduceMemoryTransformer</span>
 <span class="nb">sum</span> <span class="o">=</span> <span class="n">SumTransformer</span>
+<span class="n">target_encoder</span> <span class="o">=</span> <span class="n">TargetEncoderTransformer</span>
 <span class="c1"># SKLearn recipipe transformer.</span>
 <span class="n">from_sklearn</span> <span class="o">=</span> <span class="n">SklearnCreator</span>
 <span class="n">binarizer</span> <span class="o">=</span> <span class="n">from_sklearn</span><span class="p">(</span><span class="n">Binarizer</span><span class="p">())</span>

diff --git a/genindex.html b/genindex.html
@@ -217,6 +217,8 @@
 </li>
         <li><a href="recipipe.html#recipipe.transformers.SklearnCreator.__init__">(recipipe.transformers.SklearnCreator method)</a>
 </li>
+        <li><a href="recipipe.html#recipipe.transformers.TargetEncoderTransformer.__init__">(recipipe.transformers.TargetEncoderTransformer method)</a>
+</li>
       </ul></li>
       <li><a href="recipipe.html#recipipe.core.Recipipe.__module__">__module__ (recipipe.core.Recipipe attribute)</a>
 
@@ -260,6 +262,8 @@
         <li><a href="recipipe.html#recipipe.transformers.SklearnFitOneWrapper.__module__">(recipipe.transformers.SklearnFitOneWrapper attribute)</a>
 </li>
         <li><a href="recipipe.html#recipipe.transformers.SumTransformer.__module__">(recipipe.transformers.SumTransformer attribute)</a>
+</li>
+        <li><a href="recipipe.html#recipipe.transformers.TargetEncoderTransformer.__module__">(recipipe.transformers.TargetEncoderTransformer attribute)</a>
 </li>
       </ul></li>
   </ul></td>
@@ -505,6 +509,8 @@
 <h2 id="T">T</h2>
 <table style="width: 100%" class="indextable genindextable"><tr>
   <td style="width: 33%; vertical-align: top;"><ul>
+      <li><a href="recipipe.html#recipipe.transformers.TargetEncoderTransformer">TargetEncoderTransformer (class in recipipe.transformers)</a>
+</li>
       <li><a href="recipipe.html#recipipe.core.RecipipeTransformer.transform">transform() (recipipe.core.RecipipeTransformer method)</a>
 
       <ul>
